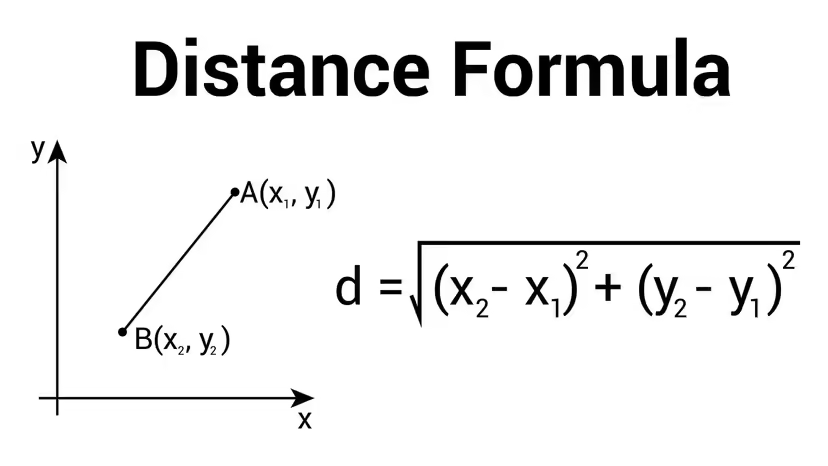
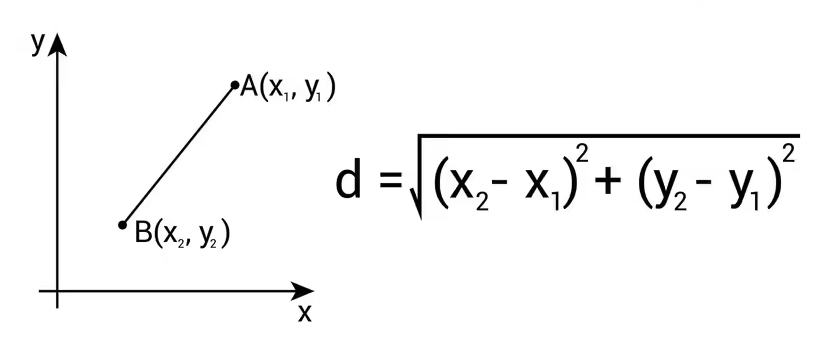
some images

diff --git a/_posts/2025-02-13-porting-an-old-delphi-project-bringing-cih-to-the-browser-with-vanilla-javascript.md b/_posts/2025-02-13-porting-an-old-delphi-project-bringing-cih-to-the-browser-with-vanilla-javascript.md
@@ -23,10 +23,11 @@ Back in **2009**, I wrote a little side project in **Delphi**. The idea? Impleme
 
 At the time, it was mostly a coding experiment, tucked away in a folder, and later uploaded here: [CIH on GitHub](https://github.com/hangga/CIH).
 
-![cih delphi](https://github.com/hangga/CIH/blob/master/doc/cih_new.jpg?raw=true)
-![cih delphi-2](https://github.com/hangga/CIH/blob/master/doc/cih_real.jpg?raw=true)
-
+<!-- ![cih delphi](https://github.com/hangga/CIH/blob/master/doc/cih_new.jpg?raw=true)
+![cih delphi-2](https://github.com/hangga/CIH/blob/master/doc/cih_real.jpg?raw=true) -->
 Fast forward more than a decade, I thought: *“Why not bring this old project back to life, but in the browser?”* No installers, no legacy IDEs, just a simple **vanilla JavaScript + canvas** demo that anyone can click and play with.
+
+![cih-js](https://hangga.github.io/blog/wp-content/uploads/2025/Screenshot-cih-js.png)
 
 👉 Demo: [CIH-JS Visualization](https://hangga.github.io/cih-js/)
 
@@ -68,7 +69,7 @@ function calculateDistance(node1, node2) {
 
 Here’s how it looks visually after adding two nodes:
 
-![Two nodes with a connecting line](https://hangga.github.io/cih-js/img/screenshot-2nodes.png)
+![Two nodes with a connecting line](https://hangga.github.io/blog/wp-content/uploads/2025/connecting-line.png)
 
 ---
 
@@ -103,7 +104,7 @@ function calculateInsertionCost(tour, newNodeId) {
 
 On the canvas, when a third node is added, the algorithm tries different positions before settling on the cheapest insertion:
 
-![Third node inserted into the tour](https://hangga.github.io/blog/wp-content/uploads/2025/connecting-line.png)
+![Third node inserted into the tour](https://hangga.github.io/blog/wp-content/uploads/2025/connecting-three.png)
 
 ---
 
@@ -126,11 +127,67 @@ Here’s a shot after several nodes have been placed:
 
 Notice the **lime-green path**? That’s the current “cheapest insertion” tour chosen by the algorithm.
 
+
+## Log – Step-by-Step Flow
+
+The **log panel** is basically a running commentary of how the CIH (Cheapest Insertion Heuristic) algorithm works behind the scenes.
+
+![log detil](https://hangga.github.io/blog/wp-content/uploads/2025/log-detil-1.png)
+
+* **Step 0–3** → Nodes are added with their coordinates (e.g., node 1 at `(238,161)`, node 2 at `(370,155)`).
+* **Step 4–5** → The algorithm starts generating possible sub-tours.
+* **Step 6** → First sub-tour `(1 → 2), (2 → 1)` with a total distance of **264.27**.
+* **Step 7** → That sub-tour is chosen as the temporary best route.
+* **Step 8–15** → A new node is inserted, insertion costs are calculated, and the cheapest option is picked.
+* The final chosen route for 3 nodes becomes: **(2 → 1), (1 → 3), (3 → 2)** with a total of **510.41**.
+
+For a larger example (7 nodes, third screenshot):
+
+* The algorithm generates **multiple candidate sub-tours** (Step 80–95), each with its own total distance.
+* Example:
+
+  * Step 83: `(2 → 1), (1 → 3), (3 → 4), (4 → 5), (5 → 2)` → **752.79**
+  * Step 90: `(1 → 3), (4 → 5), (5 → 2), (3 → 6), (6 → 4), (2 → 7), (7 → 1)` → **1048.52**
+* **Step 96** → The sub-tour with total distance **820.10** is selected.
+* **Step 97 (Final chosen)** → The final optimal tour:
+
+  ```
+  (2 → 1), (1 → 3), (3 → 6), (6 → 4), (4 → 7), (7 → 5), (5 → 2)
+  ```
+
+  with total distance **820.10**.
+
+👉 In short, the log shows the **trial-and-error journey** as the algorithm compares insertion options and narrows down to the shortest tour.
+
+---
+
+## Distance Table
+
+![Table Distance](https://hangga.github.io/blog/wp-content/uploads/2025/table-distance.png)
+
+The **distance table** is the raw data behind all those calculations. It lists pairwise distances between every node.
+
+Example:
+
+* From **1 → 2** = **132.14**
+* From **2 → 3** = **124.72**
+* From **3 → 1** = **253.55**
+
+The CIH algorithm keeps referring back to this table to evaluate insertion costs and compute total route distances.
+
+---
+
+## Takeaway
+
+* The **log** = step-by-step narration of the CIH process.
+* The **distance table** = the foundation data that powers those calculations.
+* The **final chosen route** = the best tour selected with the shortest overall distance.
+
 ---
 
 ## Looking Back, Moving Forward
 
-What started as a **Delphi project in 2010** has now been reimagined in JavaScript, complete with visual feedback and a friendlier explanation.
+What started as a **Delphi project in 2009** has now been reimagined in JavaScript, complete with visual feedback and a friendlier explanation.
 
 It’s a reminder that sometimes, old code doesn’t have to stay in the past — it can evolve, adapt, and even become more fun than before.
 
